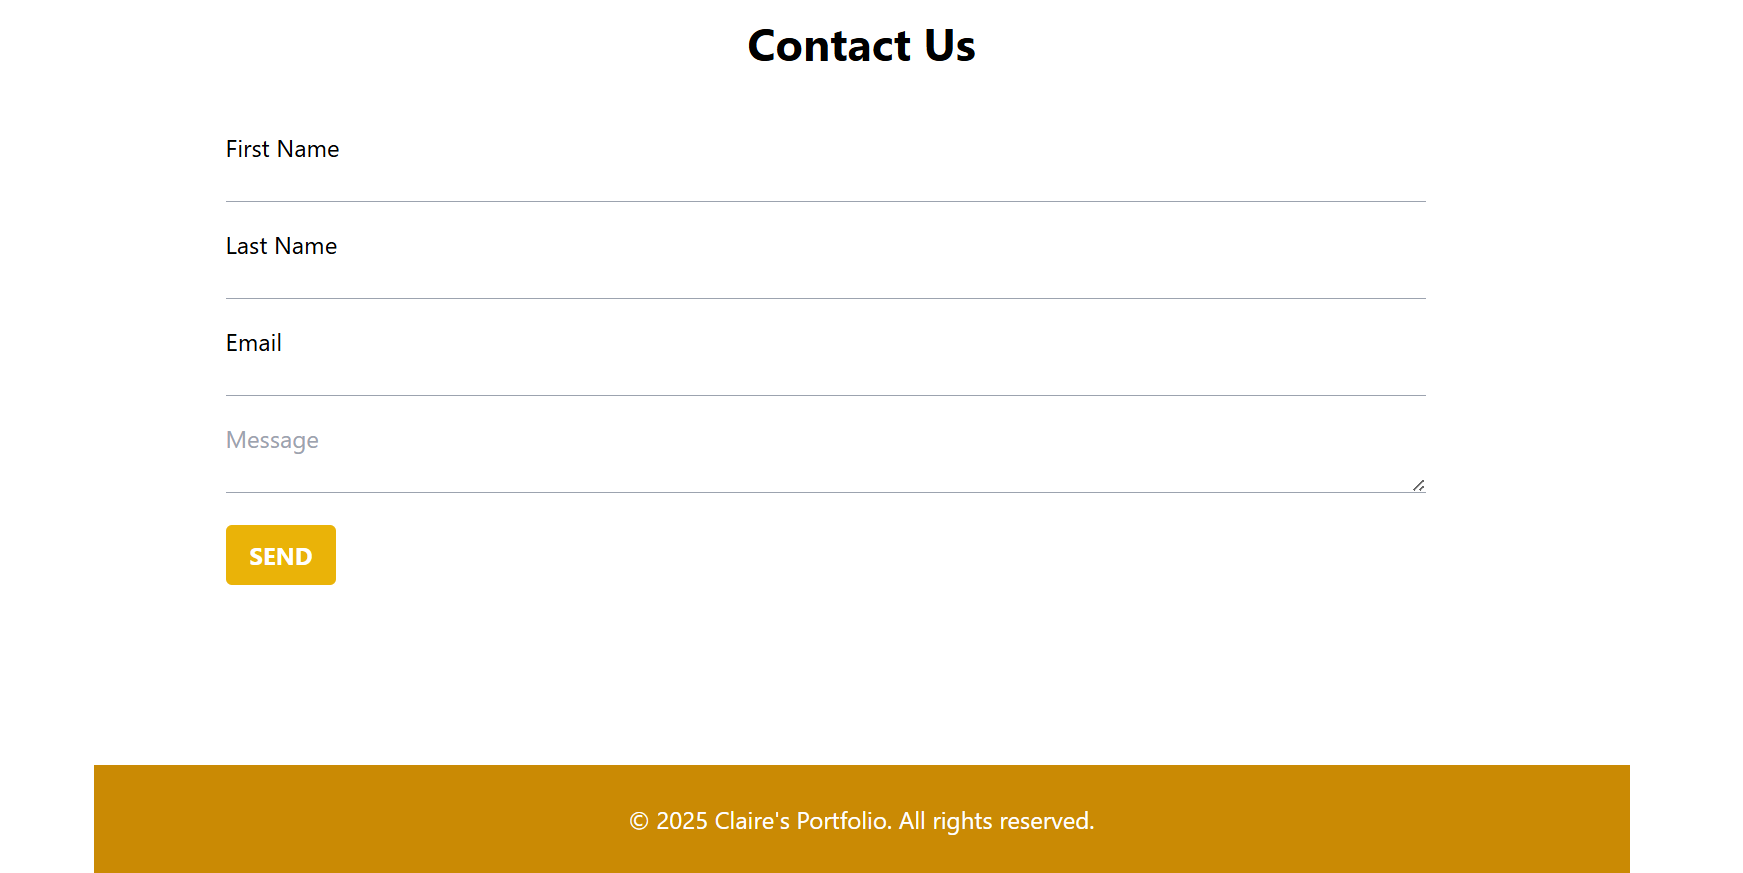
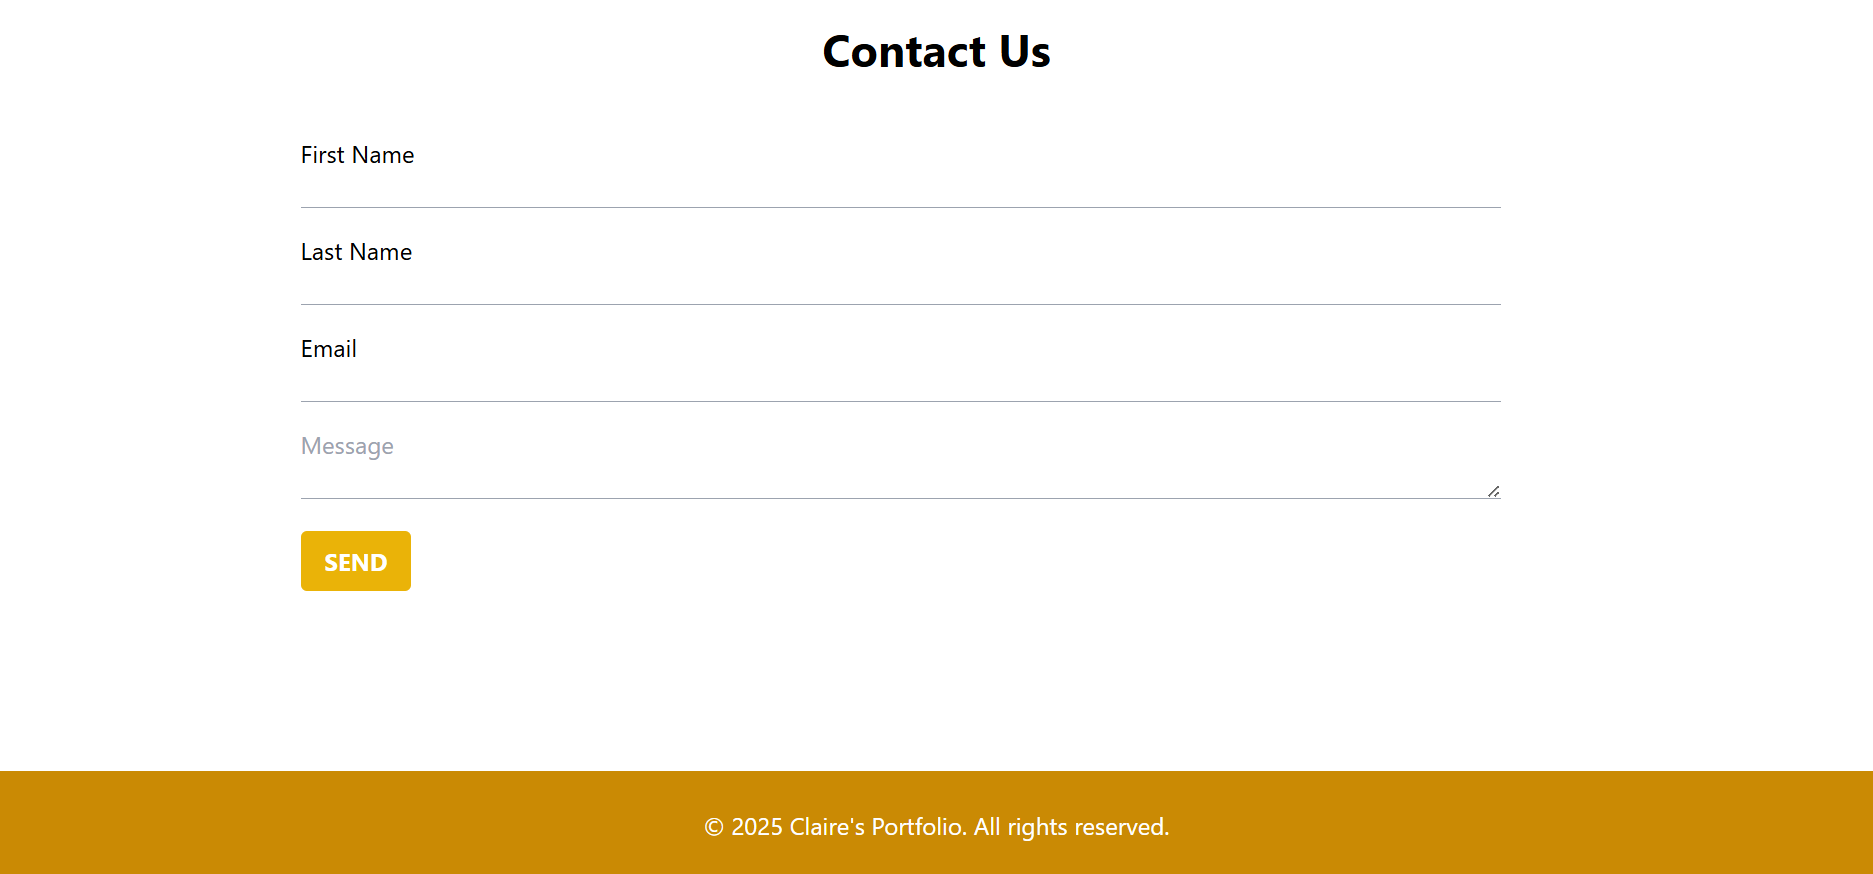
reduce spacing between content

diff --git a/index.html b/index.html
@@ -6,11 +6,12 @@
     <meta name="viewport" content="width=device-width, initial-scale=1.0">
     <script src="https://cdn.jsdelivr.net/npm/@tailwindcss/browser@4"></script>
 
-     <link href="https://cdnjs.cloudflare.com/ajax/libs/font-awesome/6.5.1/css/all.min.css" rel="stylesheet"> <!-- add font awesome -->
-     <!-- Google Font link -->
-  <link href="https://fonts.googleapis.com/css2?family=Poppins:wght@400;600&display=swap" rel="stylesheet">
-  <!-- Tailwind CDN -->
-  <script src="https://cdn.tailwindcss.com"></script>
+    <link href="https://cdnjs.cloudflare.com/ajax/libs/font-awesome/6.5.1/css/all.min.css" rel="stylesheet">
+    <!-- add font awesome -->
+    <!-- Google Font link -->
+    <link href="https://fonts.googleapis.com/css2?family=Poppins:wght@400;600&display=swap" rel="stylesheet">
+    <!-- Tailwind CDN -->
+    <script src="https://cdn.tailwindcss.com"></script>
     <title>Portfolio</title>
 </head>
 
@@ -19,146 +20,152 @@
 
 
     <div class="h-screen w-full bg-cover bg-center bg-[url('welcome-background.jpg')]">
-        
+
         <!-- Navigation bar -->
-<header class="ml-[31px]">
-  <nav class="container mx-auto text-white flex justify-between items-center p-6">
-    <p class="text-5xl font-bold">Claire</p>
-    <ul class="flex flex-col lg:flex-row gap-6 text-lg">
-      <li><a href="#Home" class="hover:text-yellow-500 underline underline-offset-10 decoration-yellow-500">Home</a></li>
-      <li><a href="#About" class="hover:text-yellow-500">About</a></li>
-      <li><a href="#Projects" class="hover:text-yellow-500">Projects</a></li>
-      <li><a href="#Contact" class="hover:text-yellow-500">Contact</a></li>
-    </ul>
-  </nav>
-</header>
+        <header class="ml-[31px]">
+            <nav class="container mx-auto text-white flex justify-between items-center p-6">
+                <p class="text-5xl font-bold">Claire</p>
+                <ul class="flex flex-col lg:flex-row gap-6 text-lg">
+                    <li><a href="#Home"
+                            class="hover:text-yellow-500 underline underline-offset-10 decoration-yellow-500">Home</a>
+                    </li>
+                    <li><a href="#About" class="hover:text-yellow-500">About</a></li>
+                    <li><a href="#Projects" class="hover:text-yellow-500">Projects</a></li>
+                    <li><a href="#Contact" class="hover:text-yellow-500">Contact</a></li>
+                </ul>
+            </nav>
+        </header>
 
 
 
         <!-- Hello section -->
 
-        <section class="m-[38px] flex justify-between gap-10 container mx-auto flex-col md:flex-row  py-20 px-12" id="Home">
+        <section class="m-[38px] flex justify-between gap-10 container mx-auto flex-col md:flex-row  py-20 px-12"
+            id="Home">
             <div class="text-white">
                 <h1 class="text-5xl font-bold">Hello I'm <span class="text-yellow-500">Claire</span></h1>
-                <p class="text-xl mb-8 w-130 pt-10 w-16 md:w-full" >I’m Claire, a passionate developer with a strong interest in frontend development
-                     and web design.</p>
-                <button id="About" class="bg-yellow-500 hover:bg-yellow-600 text-white font-bold py-2 px-4 rounded">Read More <span class="text-xl">→</span></button>
+                <p class="text-xl mb-8 w-130 pt-10 w-16 md:w-full">I’m Claire, a passionate developer with a strong
+                    interest in frontend development
+                    and web design.</p>
+                <button id="About" class="bg-yellow-500 hover:bg-yellow-600 text-white font-bold py-2 px-4 rounded">Read
+                    More <span class="text-xl">→</span></button>
             </div>
 
-           
-                <img src="me1.jpg" alt="me"  class="rounded-full w-70 h-75 shadow-[0_0_95px_white]" >
-            
-        
-        </section>
-
-
-        <!-- About section -->
-
-        <!-- About section -->
-<section id="About" class="m-38 container mx-auto flex flex-col md:flex-row items-center py-20 px-12">
-    <!-- Image -->
-    <img src="me1.jpg" alt="about-img" class="w-70 h-70 mr-20 mb-8 md:mb-0 md:mr-10">
-
-    <!-- Text -->
-    <div>
-        <h2 class="text-3xl font-bold text-yellow-500">About Me</h2>                
-        <p class="mt-10 mb-8">
-            Web Developer & Web Designer Based in New York.
-            I specialize in frontend development, which focuses
-            on creating user-friendly interfaces and seamless user experiences.
-        </p>
-        <button class="bg-yellow-500 hover:bg-yellow-600 text-white font-bold py-2 px-4 rounded">
-            More <span class="text-xl">→</span>
-        </button>
+            <img src="me1.jpg" alt="me" class="rounded-full w-70 h-75 shadow-[0_0_95px_white]">
     </div>
-</section>
+    </section>
 
 
-<!-- Projects section -->
-<section id="Projects" class="m-38 py-20 px-12">
-    <div class="container mx-auto">
-        <h2 class="text-3xl font-bold text-yellow-500 text-center">My Projects</h2>
+    <!-- About section -->
+    <section id="About" class="ml-30 container mx-auto flex flex-col md:flex-row items-center py-20 px-12">
+        <img src="me1.jpg" alt="about-img" class="w-70 h-70 mr-20 mb-8 md:mb-0 md:mr-10">
 
-        <div class="grid grid-cols-1 md:grid-cols-3 gap-10 mt-10">
-            <!-- Project 1 -->
-            <div>
-                <h3 class="text-xl font-bold mb-8">Portfolio</h3>
-                <img src="wb-bgk2.jpg" alt="">
-                <p>
-                    My goal is to combine creativity and technical
-                    skills to deliver solutions that are both visually appealing and effective.
-                </p>
-            </div>
+        <div>
+            <h2 class="text-3xl font-bold text-yellow-500">About Me</h2>
+            <p class="mt-10 mb-5">
+                Web Developer & Web Designer Based in New York.
+                I specialize in frontend development, which focuses
+                on creating user-friendly interfaces and seamless user experiences.
+            </p>
+            <button class="bg-yellow-500 hover:bg-yellow-600 text-white font-bold py-2 px-4 rounded">
+                More <span class="text-xl">→</span>
+            </button>
+        </div>
+    </section>
 
-            <!-- Project 2 -->
-            <div>
-                <h3 class="text-xl font-bold mb-8">Yuuki Website</h3>
-                <img src="wb-bgk2.jpg" alt="">
-                <p>
-                    My goal is to combine creativity and technical skills to deliver 
-                    solutions that are both visually appealing and effective.
-                </p>
-            </div>
 
-            <!-- Project 3 -->
-            <div>
-                <h3 class="text-xl font-bold mb-8">Utah Sunsets</h3>
-                <img src="wb-bgk2.jpg" alt="">
-                <p>
-                    My goal is to combine creativity and technical skills to deliver
-                    solutions that are both visually appealing and effective.
-                </p>
-                <!-- <button class="bg-yellow-500 hover:bg-yellow-600 text-white font-bold py-2 px-4 rounded">
+    <!-- Projects section -->
+    <section id="Projects" class="ml-20 py-5 px-12">
+        <div class="container mx-auto">
+            <h2 class="text-3xl font-bold text-yellow-500 text-center">My Projects</h2>
+
+            <div class="grid grid-cols-1 md:grid-cols-3 gap-10 mt-10">
+                <!-- Project 1 -->
+                <div>
+                    <h3 class="text-xl font-bold mb-8">Portfolio</h3>
+                    <img src="wb-bgk2.jpg" alt="">
+                    <p>
+                        My goal is to combine creativity and technical
+                        skills to deliver solutions that are both visually appealing and effective.
+                    </p>
+                </div>
+
+                <!-- Project 2 -->
+                <div>
+                    <h3 class="text-xl font-bold mb-8">Yuuki Website</h3>
+                    <img src="wb-bgk2.jpg" alt="">
+                    <p>
+                        My goal is to combine creativity and technical skills to deliver
+                        solutions that are both visually appealing and effective.
+                    </p>
+                </div>
+
+                <!-- Project 3 -->
+                <div>
+                    <h3 class="text-xl font-bold mb-6">Utah Sunsets</h3>
+                    <img src="wb-bgk2.jpg" alt="">
+                    <p>
+                        My goal is to combine creativity and technical skills to deliver
+                        solutions that are both visually appealing and effective.
+                    </p>
+                    <!-- <button class="bg-yellow-500 hover:bg-yellow-600 text-white font-bold py-2 px-4 rounded">
                     Explore <span class="text-xl">→</span> -->
-                </button>
+                    </button>
+                </div>
             </div>
         </div>
-    </div>
-</section>
+    </section>
 
 
 
 
-     <!-- Contact section -->
-                <section id="Contact" class= "container mx-auto flex flex-col md:flex-row items-center py-20 px-12">
-                    <div>
+    <!-- Contact section -->
+    <section id="Contact" class="container mx-auto flex flex-col md:flex-row items-center py-20 px-12">
+        <div>
             <h1 class="text-3xl font-bold text-center">Contact Us</h1>
 
             <form class="mx-w-lg mx-auto p-10 rounded-xl space-y-4">
                 <div>
 
-            <label for="">First Name<p>
-                <input type="text"name="first-name" class="border-b border-gray-400 focus:outline-none focus:border-blue-500 w-200"></label>
+                    <label for="">First Name<p>
+                            <input type="text" name="first-name"
+                                class="border-b border-gray-400 focus:outline-none focus:border-blue-500 w-200"></label>
 
                 </div>
 
                 <div>
-                <label for="">Last Name
-                    <p><input type="text"name="last-name" class="border-b border-gray-400 focus:outline-none focus:border-blue-500 w-200"></label>
+                    <label for="">Last Name
+                        <p><input type="text" name="last-name"
+                                class="border-b border-gray-400 focus:outline-none focus:border-blue-500 w-200">
+                    </label>
                 </div>
 
                 <div>
-                <label for="">Email
-                    <p><input type="text" name="email" class="border-b border-gray-400 focus:outline-none focus:border-blue-500 w-200"></label>
+                    <label for="">Email
+                        <p><input type="text" name="email"
+                                class="border-b border-gray-400 focus:outline-none focus:border-blue-500 w-200">
+                    </label>
                 </div>
 
-                <textarea placeholder="Message" name="message" id="" class="border-b border-gray-400 focus:outline-none focus:border-blue-500 w-200" ></textarea>
-                <input type="submit" value="SEND" class="bg-yellow-500 hover:bg-yellow-600 text-white font-bold py-2 px-4 rounded mt-10">
-            </div>    
-            </section>
+                <textarea placeholder="Message" name="message" id=""
+                    class="border-b border-gray-400 focus:outline-none focus:border-blue-500 w-200"></textarea>
+                <input type="submit" value="SEND"
+                    class="bg-yellow-500 hover:bg-yellow-600 text-white font-bold py-2 px-4 rounded mt-10">
+        </div>
+    </section>
 
 
-      <footer>
-        <div class="bg-yellow-600 text-white p-6">
+    <footer>
+        <div class="bg-yellow-600 text-white p-6 text-center">
             <p>&copy; 2025 Claire's Portfolio. All rights reserved.</p>
         </div>
-            
-      </footer> 
-        
+
+    </footer>
+
 
 
     </div>
 
 </body>
 
-</html> 
+</html>
